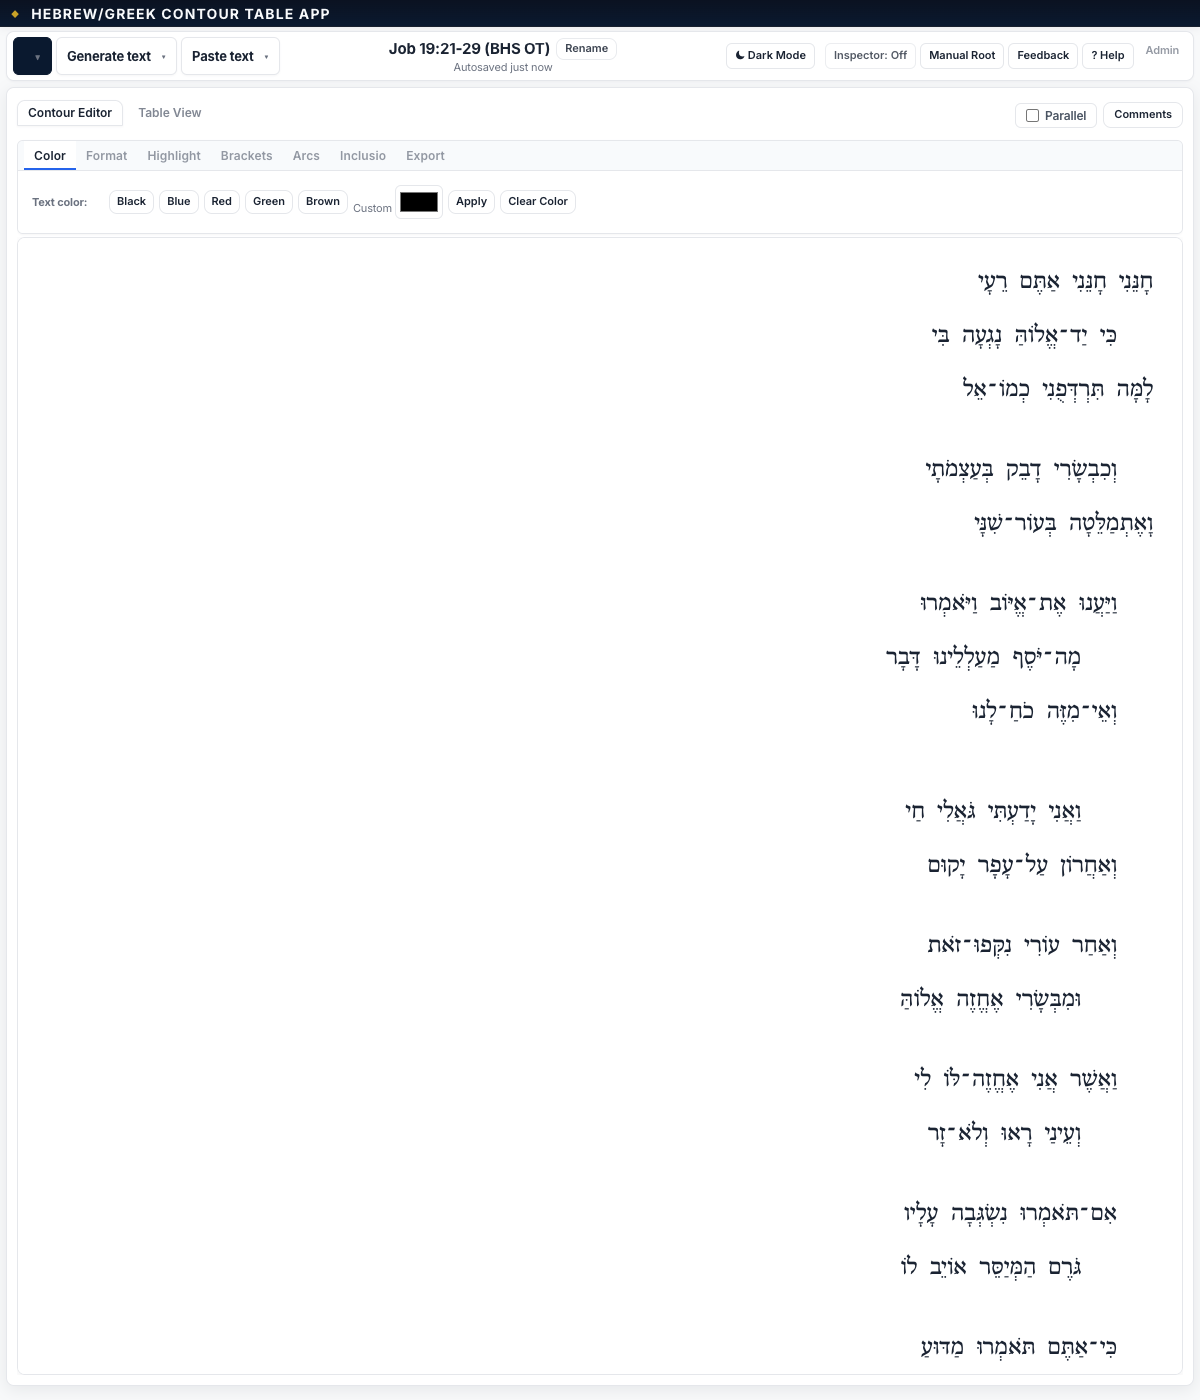
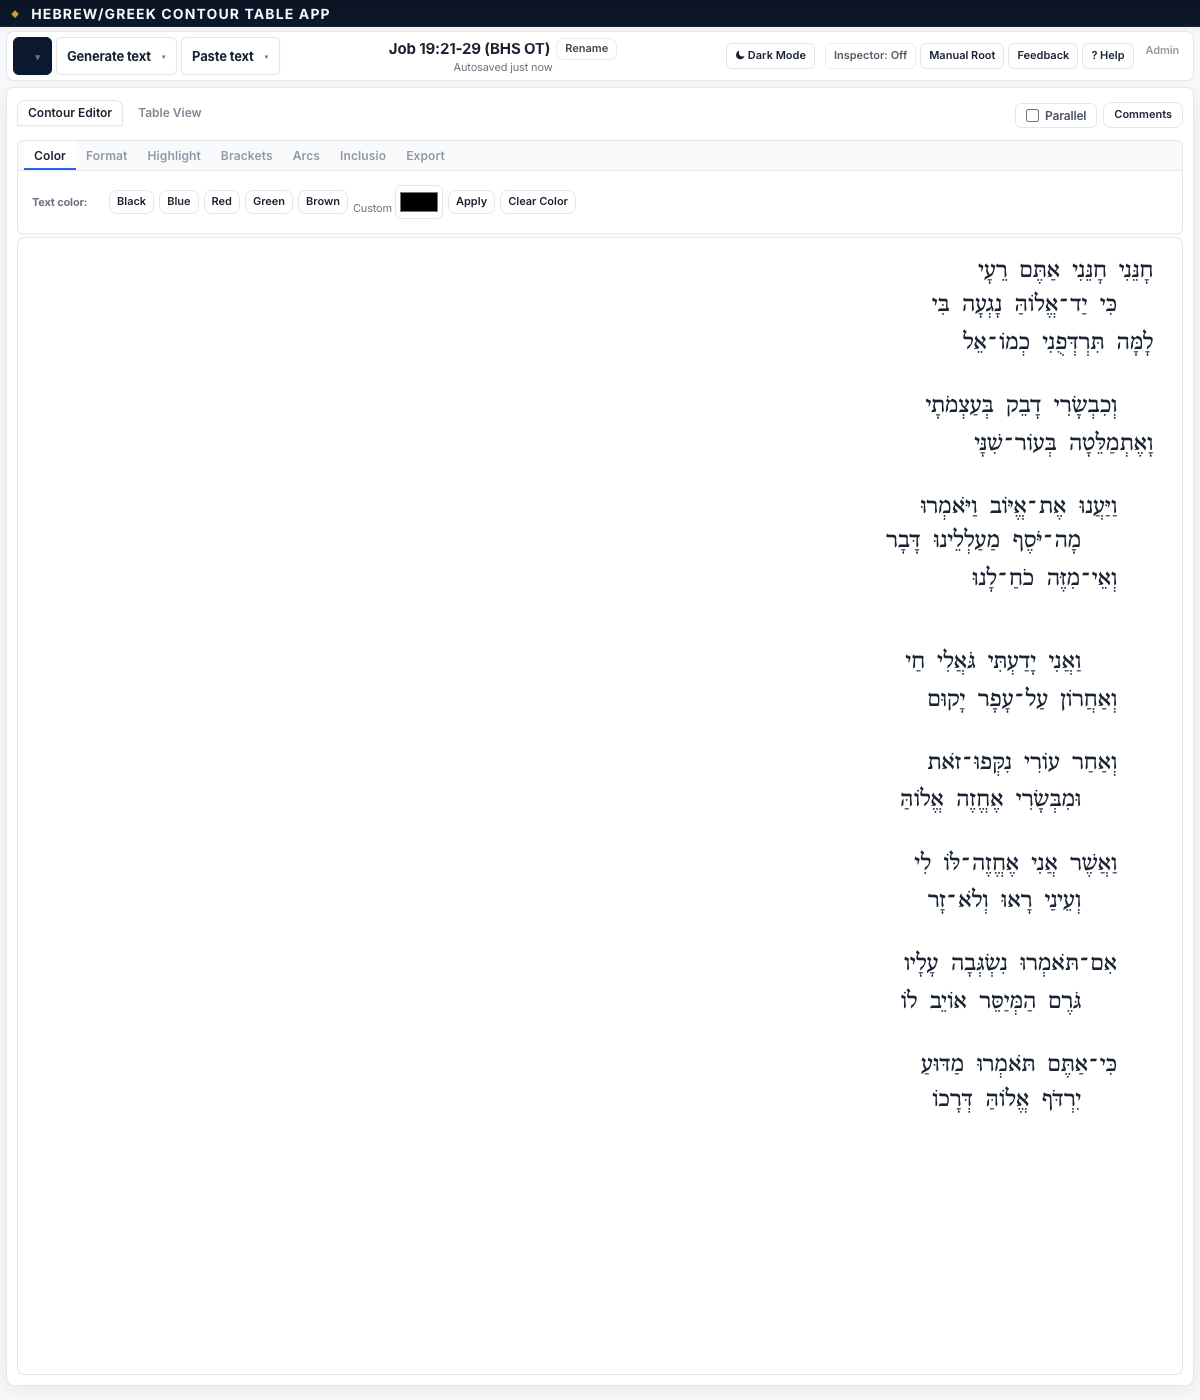
Fix visual discourse breaks under single-density contour view.
Preserve layout-break margins in the editor when project view prefs use tight single spacing, and bump PWA cache to v43.

diff --git a/styles/layout-breaks.css b/styles/layout-breaks.css
@@ -15,6 +15,22 @@
   margin-bottom: 48px;
 }
 
+/* Single-density tightens default clauses; visual breaks must still show */
+body.contour-density-single #editor .clause.layout-break-sm,
+body.contour-density-single .parallel-verse-body .clause.layout-break-sm {
+  margin-bottom: 14px !important;
+}
+
+body.contour-density-single #editor .clause.layout-break-md,
+body.contour-density-single .parallel-verse-body .clause.layout-break-md {
+  margin-bottom: 28px !important;
+}
+
+body.contour-density-single #editor .clause.layout-break-lg,
+body.contour-density-single .parallel-verse-body .clause.layout-break-lg {
+  margin-bottom: 48px !important;
+}
+
 #editor .verse-block.verse-spacing-single,
 .parallel-verse-cell .verse-block.verse-spacing-single {
   margin-bottom: 2.1em;

diff --git a/index.html b/index.html
@@ -17,8 +17,8 @@
 <link rel="stylesheet" href="styles/contour-polish-v1.css?v=3">
 <link rel="stylesheet" href="styles/inclusio-phase-a.css?v=1">
 <link rel="stylesheet" href="styles/project-header.css?v=2">
-<link rel="stylesheet" href="styles/layout-breaks.css?v=1">
-<link rel="stylesheet" href="styles/project-view-prefs.css?v=1">
+<link rel="stylesheet" href="styles/layout-breaks.css?v=2">
+<link rel="stylesheet" href="styles/project-view-prefs.css?v=2">
 </head>
 <body>
 <div id="passwordGate" class="password-gate">

diff --git a/styles/project-view-prefs.css b/styles/project-view-prefs.css
@@ -5,8 +5,8 @@ body.contour-density-single .parallel-verse-body {
   line-height: 1.35 !important;
 }
 
-body.contour-density-single #editor .clause,
-body.contour-density-single .parallel-verse-body .clause {
+body.contour-density-single #editor .clause:not(.layout-break-sm):not(.layout-break-md):not(.layout-break-lg),
+body.contour-density-single .parallel-verse-body .clause:not(.layout-break-sm):not(.layout-break-md):not(.layout-break-lg) {
   margin-top: 0;
   margin-bottom: 0;
   padding-top: 1px;

diff --git a/service-worker.js b/service-worker.js
@@ -1,4 +1,4 @@
-const CACHE_NAME = 'contour-app-pwa-v42';
+const CACHE_NAME = 'contour-app-pwa-v43';
 const APP_ASSETS = [
   './',
   './index.html',
